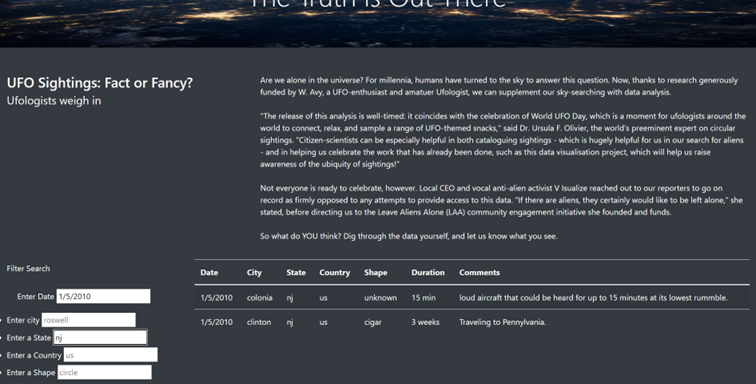
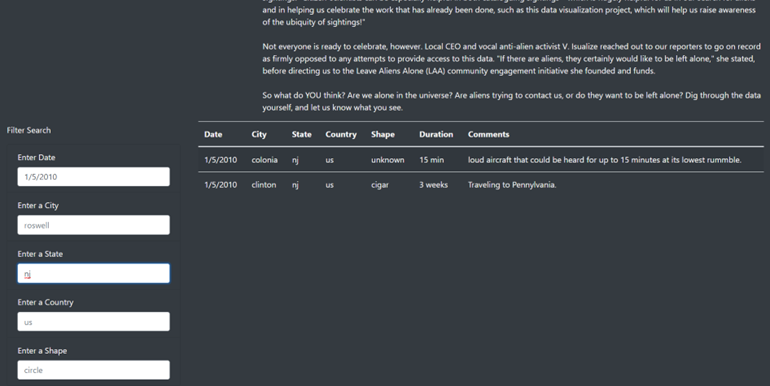
Update screenshots

diff --git a/Module_Challenge/index.html b/Module_Challenge/index.html
@@ -1,114 +1,113 @@
 <!DOCTYPE html>
 <html lang="en">
-  <head>
-    <meta charset="UTF-8" />
-    <meta name="viewport" content="width=device-width, initial-scale=1.0" />
-    <meta http-equiv="X-UA-Compatible" content="ie=edge" />
+<head>
+    <meta charset="UTF-8">
+    <meta name="viewport" content="width=device-width, initial-scale=1.0">
     <title>UFO Finder</title>
-    <link
-      rel="stylesheet"
-      href="https://maxcdn.bootstrapcdn.com/bootstrap/4.0.0/css/bootstrap.min.css"
-      integrity="sha384-Gn5384xqQ1aoWXA+058RXPxPg6fy4IWvTNh0E263XmFcJlSAwiGgFAW/dAiS6JXm"
-      crossorigin="anonymous"
-    />
-    <link rel="stylesheet" href="static/css/style.css" />
-  </head>
-
-  <body class="bg-dark">
+    <link rel="stylesheet" href="https://maxcdn.bootstrapcdn.com/bootstrap/4.0.0/css/bootstrap.min.css" integrity="sha384-Gn5384xqQ1aoWXA+058RXPxPg6fy4IWvTNh0E263XmFcJlSAwiGgFAW/dAiS6JXm" crossorigin="anonymous">
+    <link rel="stylesheet" href="static/css/style.css">
+</head>
+<body class="bg-dark">
     <div class="wrapper">
-      <!-- Navbar -->
-      <nav class="navbar navbar-dark bg-dark navbar-expand-lg">
-        <a class="navbar-brand" href="index.html">UFO Sightings</a>
-      </nav>
-      <!-- Jumbotron -->
-      <div class="jumbotron">
-        <h1 class="display-4">The Truth is Out There</h1>
-      </div>
+        <!-- Navigation Bar -->
+        <nav class="navbar navbar-dark bg-dark navbar-expand-lg">
+            <a class="navbar-brand" href="index.html">UFO Sightings</a>
+        </nav>
 
-      <!-- Article title and paragraph -->
-      <div class="container-fluid">
-        <div class="row">
-          <div class="col-md-4 article-title">
-            <h3>UFO Sightings: Fact or Fancy? <small>Ufologists weigh in</small></h3>
-          </div>
-          <div class="col-md-8 article-p">
-            <p>
-              Are we alone in the universe? For millennia, humans have turned to the sky to answer
-              this question. Now, thanks to research generously funded by W. Avy, a UFO-enthusiast
-              and amatuer Ufologist, we can supplement our sky-searching with data analysis. <br><br>"The
-              release of this analysis is well-timed: it coincides with the celebration of World UFO
-              Day, which is a moment for ufologists around the world to connect, relax, and sample a
-              range of UFO-themed snacks," said Dr. Ursula F. Olivier, the world's preeminent expert
-              on circular sightings. "Citizen-scientists can be especially helpful in both
-              cataloguing sightings - which is hugely helpful for us in our search for aliens - and
-              in helping us celebrate the work that has already been done, such as this data
-              visualisation project, which will help us raise awareness of the ubiquity of
-              sightings!"<br><br> Not everyone is ready to celebrate, however. Local CEO and vocal
-              anti-alien activist V Isualize reached out to our reporters to go on record as firmly
-              opposed to any attempts to provide access to this data. "If there are aliens, they
-              certainly would like to be left alone," she stated, before directing us to the Leave
-              Aliens Alone (LAA) community engagement initiative she founded and funds. <br><br>So what do
-              YOU think? Dig through the data yourself, and let us know what you see.
-            </p>
-          </div>
+        <!-- Page Header -->
+        <div class="jumbotron">
+            <h1 class="display-4">The Truth Is Out There</h1>
         </div>
-      </div>
-
-      <!-- Filter -->
-      <div class="container-fluid">
-        <div class="row">
-          <div class="col-md-3">
-            <form class="bg-dark">
-              <p>Filter Search</p>
-              <ul class="list-group">
-                <li class="list-group-item bg-dark">
-                  <label for="datetime">Enter Date</label>
-                  <input type="text" placeholder="1/10/2010" id="datetime" />
-                </li>
-                <li class="bg-dark" >
-                  <label for="city">Enter city</label>
-                  <input type="text" placeholder="roswell" id="city" />
-                </li>
-                <li class="bg-dark" >
-                  <label for="state">Enter a State</label>
-                  <input type="text" placeholder="ca" id="state" />
-                </li>
-                <li class="bg-dark" >
-                  <label for="country">Enter a Country</label>
-                  <input type="text" placeholder="us" id="country" />
-                </li>
-                <li class="bg-dark" >
-                  <label for="shape">Enter a Shape</label>
-                  <input type="text" placeholder="circle" id="shape" />
-                </li>
-              </ul>
-             </form>              
-      </div>
-
-          <!-- Table -->
-          <div class="col-md-9">
-            <table class="table table-striped">
-              <thead>
-                <tr>
-                  <th>Date</th>
-                  <th>City</th>
-                  <th>State</th>
-                  <th>Country</th>
-                  <th>Shape</th>
-                  <th>Duration</th>
-                  <th>Comments</th>
-                </tr>
-              </thead>
-              <tbody></tbody>
-            </table>
-          </div>
+        
+        <!-- Article Title | Article Paragraph -->
+        <div class="container-fluid">
+            <div class="row">
+                <!-- Article Title -->
+                <div class="col-md-4">
+                    <h3>UFO Sightings: Fact or Fancy?<br><small>Ufologists Weigh In</small></h3>
+                </div>
+                <!-- Article Paragraph -->
+                <div class="col-md-8">
+                    <p>
+                        Are we alone in the universe? For millennia, humans have turned to the sky to answer this question. Now, thanks to research generously funded by W. Avy, a UFO-enthusiast and amateur ufologist, 
+                        we can supplement our sky-searching with data analysis.<br><br>
+                        "The release of this analysis is well-timed: It coincides with the celebration of World UFO Day, which is a moment for ufologists around the world to connect, relax, and sample a range of UFO-themed 
+                        snacks," said Dr. Ursula F. Olivier, the world's preeminent expert on circular sightings. "Citizen-scientists can be especially helpful in both cataloguing sightings—which is hugely helpful for us in 
+                        our search for aliens—and in helping us celebrate the work that has already been done, such as this data visualization project, which will help us raise awareness of the ubiquity of sightings!"<br><br>
+                        Not everyone is ready to celebrate, however. Local CEO and vocal anti-alien activist V. Isualize reached out to our reporters to go on record as firmly opposed to any attempts to provide access to this 
+                        data. "If there are aliens, they certainly would like to be left alone," she stated, before directing us to the Leave Aliens Alone (LAA) community engagement initiative she founded and funds.<br><br>
+                        So what do YOU think? Are we alone in the universe? Are aliens trying to contact us, or do they want to be left alone? Dig through the data yourself, and let us know what you see. 
+                    </p>
+                </div>
+            </div>
         </div>
-      </div>
+
+        <!-- Filter | Table -->
+        <div class="container-fluid">
+            <div class="row">
+                <!-- Filter -->
+                <div class="col-md-3">
+                    <form class="bg-dark" action="">
+                        <p>Filter Search</p>
+                        <ul class="list-group bg-dark">
+                            <!-- Input -->
+                            <li class="list-group-item bg-dark">
+                                <label for="date">Enter Date </label>
+                                <input type="text" class="form-control" placeholder="1/10/2010" id="datetime">
+                            </li>
+                            <!-- City -->
+                            <li class="list-group-item bg-dark">
+                                <label for="date">Enter a City</label>
+                                <input type="text" class="form-control" placeholder="roswell" id="city">
+                            </li>
+                            <!-- State -->
+                            <li class="list-group-item bg-dark">
+                                <label for="date">Enter a State</label>
+                                <input type="text" class="form-control" placeholder="ca" id="state">
+                            </li>
+                            <!-- Country -->
+                            <li class="list-group-item bg-dark">
+                                <label for="date">Enter a Country</label>
+                                <input type="text" class="form-control" placeholder="us" id="country">
+                            </li>
+                            <!-- Shape -->
+                            <li class="list-group-item bg-dark">
+                                <label for="date">Enter a Shape</label>
+                                <input type="text" class="form-control" placeholder="circle" id="shape">
+                            </li>
+                            <!-- Button -->
+                            <!-- <li class="list-group-item bg-dark text-center">
+                                <button id="filter-btn" type="button" class="btn btn-dark">Filter Table</button>
+                            </li> -->
+                        </ul>
+                    </form>
+                </div>
+                <!-- Table -->
+                <div class="col-md-9">
+                    <table class="table table-striped">
+                        <thead>
+                            <tr>
+                                <th>Date</th>
+                                <th>City</th>
+                                <th>State</th>
+                                <th>Country</th>
+                                <th>Shape</th>
+                                <th>Duration</th>
+                                <th>Comments</th>
+                            </tr>
+                        </thead>
+                        <tbody></tbody>
+                    </table>
+                </div>
+            </div>
+        </div>
     </div>
+
+    <!-- Add scripts -->
     <script src="https://cdnjs.cloudflare.com/ajax/libs/d3/4.11.0/d3.js"></script>
     <script src="static/js/data.js"></script>
     <script src="static/js/app.js"></script>
-  </body>
+</body>
 </html>
 
 
